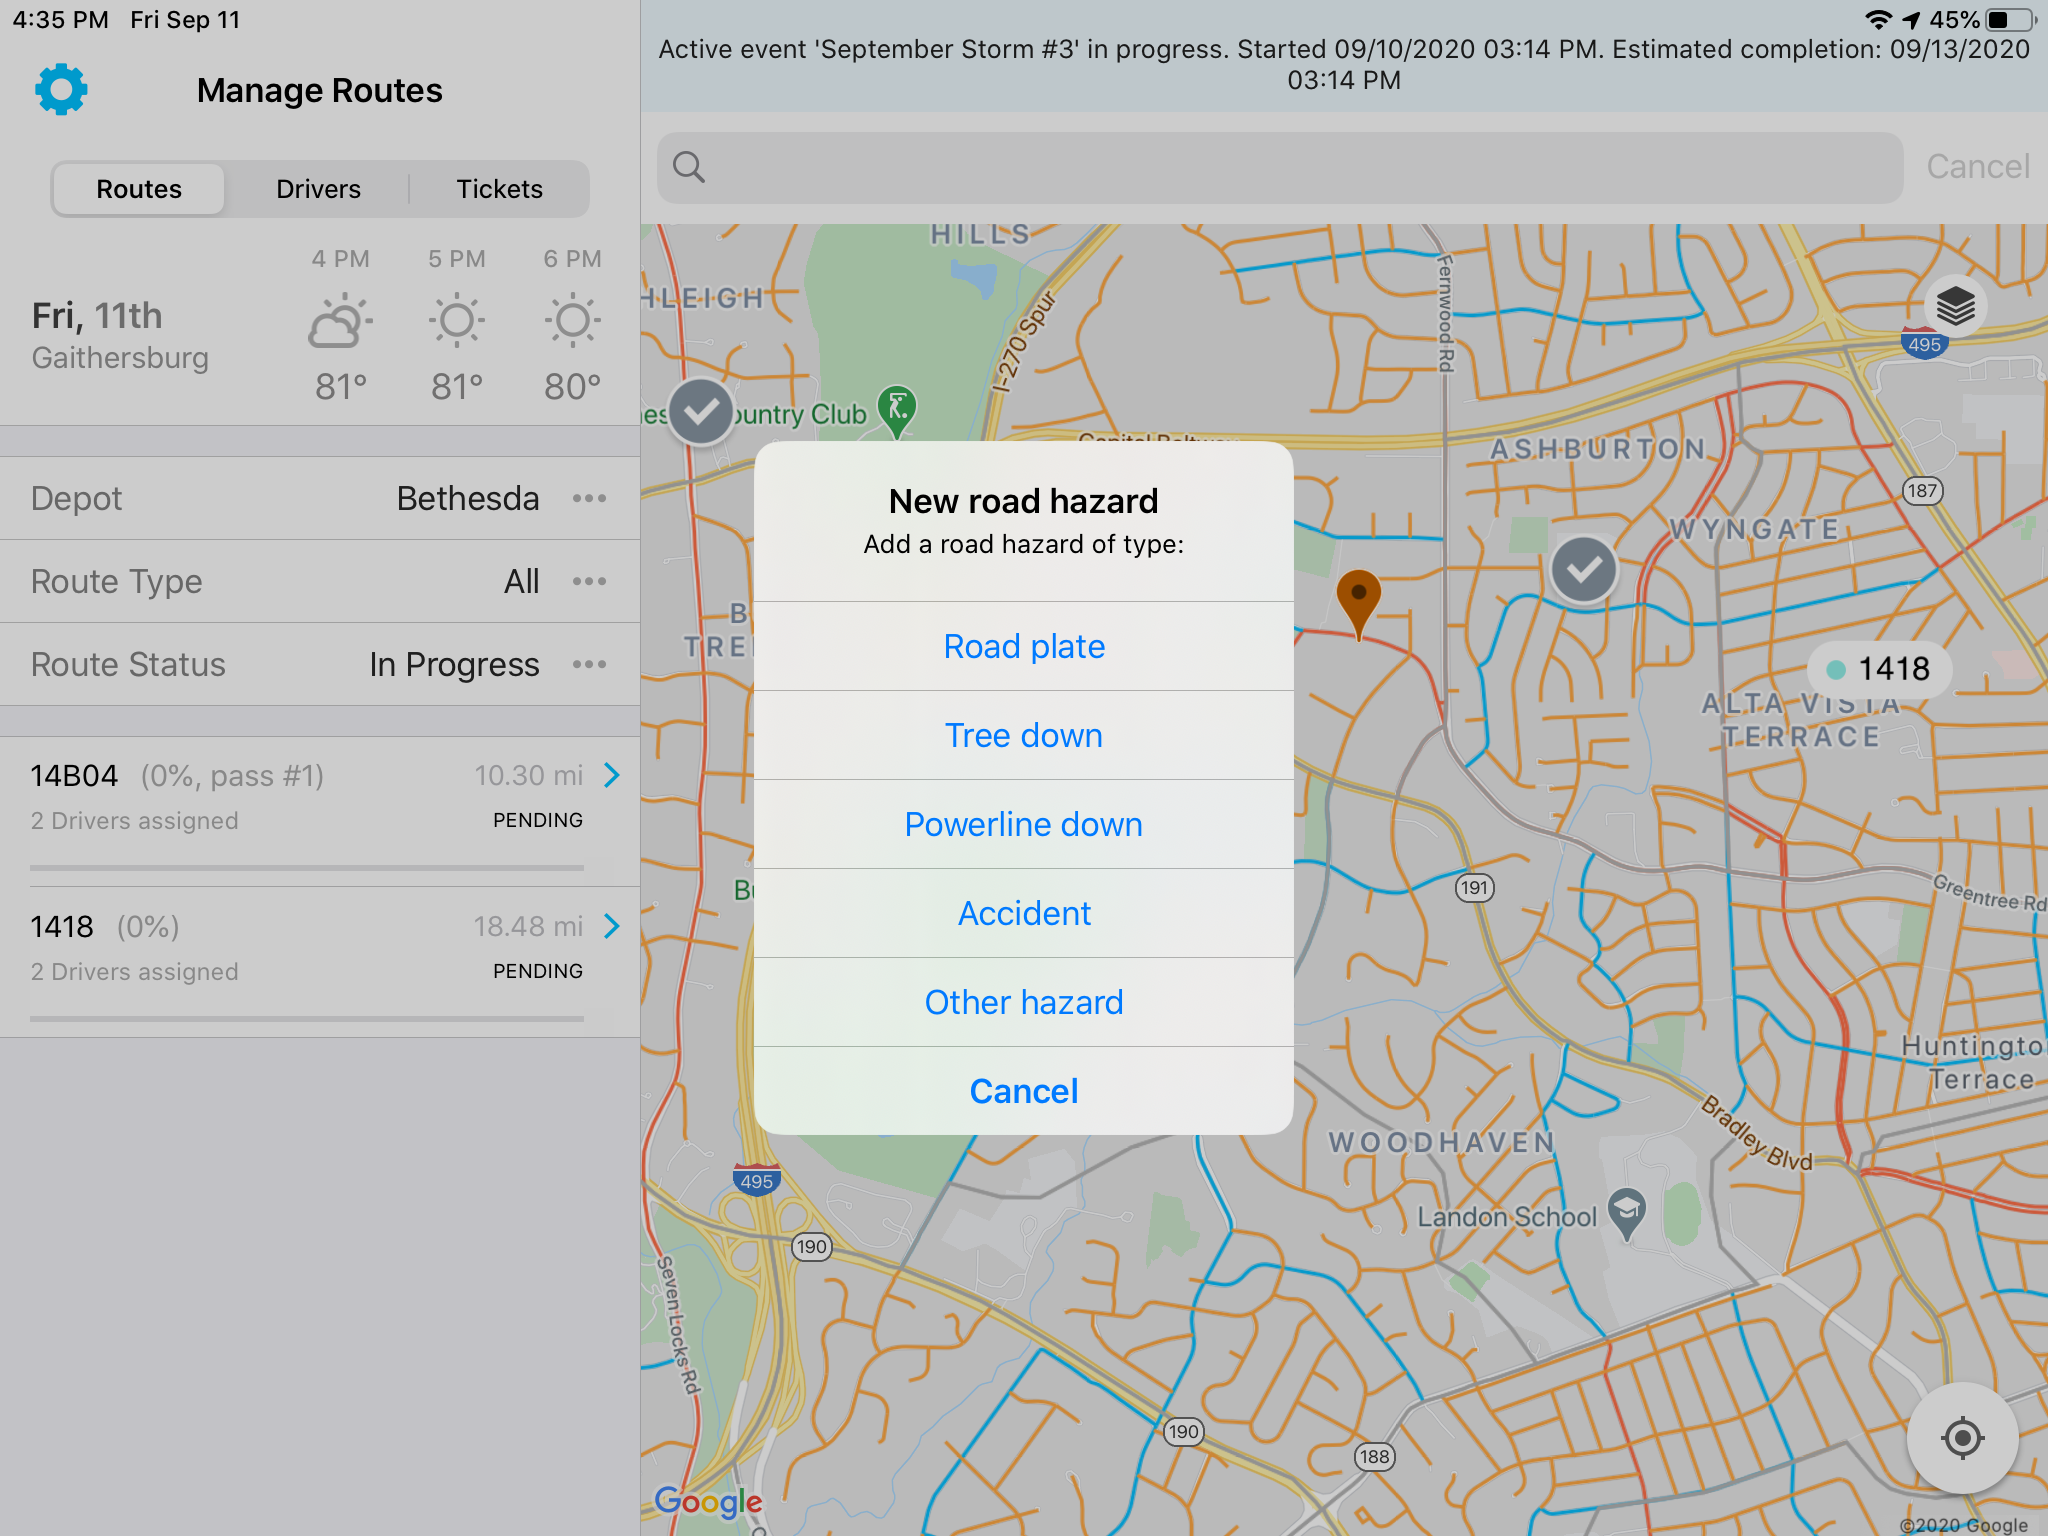
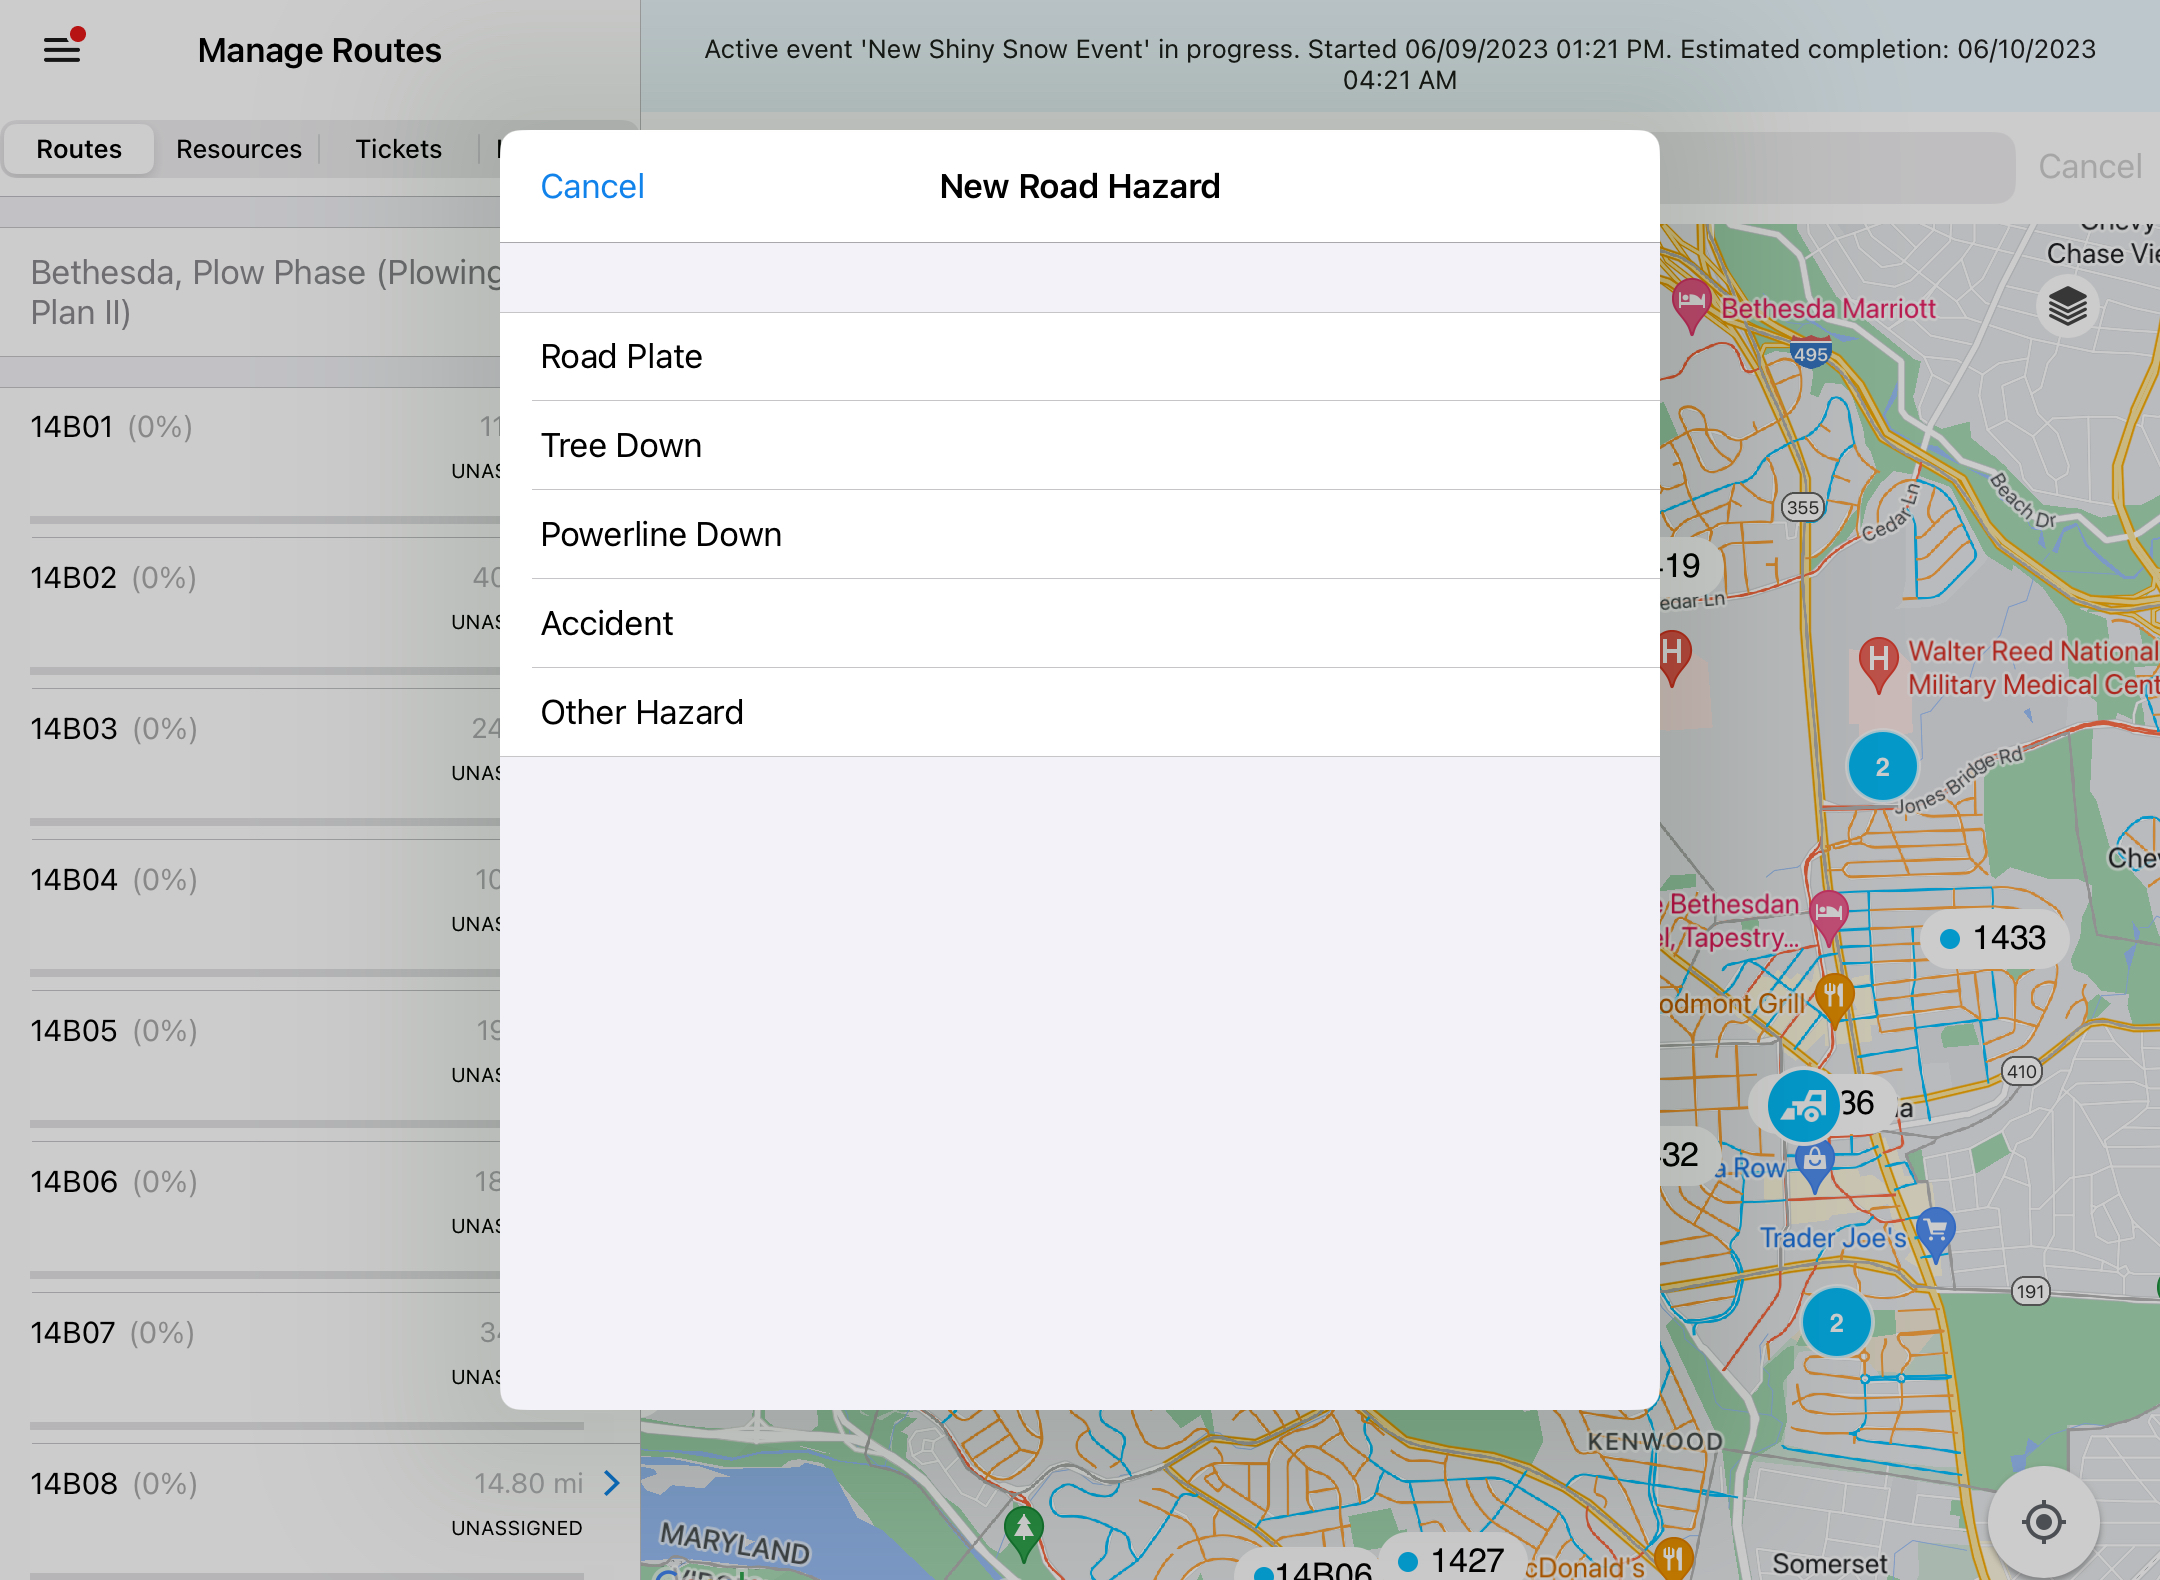
sa-supervisor-activities

diff --git a/sa-supervisor-activities.md b/sa-supervisor-activities.md
@@ -21,17 +21,17 @@ There are three ways of creating new assignments within the SA:
 3. From the Map Monitoring view on either the Routes or Drivers
 
 <section id="Assigning-New-Drivers" markdown="1">
-### Assigning New Drivers
+### Assigning Resource to a Route
 
-A Supervisor can assign a new driver to a route, by following the steps below:
+A Supervisor can assign a new resource to a route, by following the steps below:
 
-* From 'Routes Details' panel, tap 'Assign new drivers' as shown below
+* From 'Routes Details' panel, tap 'Assign Resource' as shown below
 
  
 <img src="images/supervisor/sa-supervisor-activities/assigning-new-drivers-android.png" class="android" data-lightbox="1" />
 <img src="images/supervisor/sa-supervisor-activities/assigning-new-drivers-ios.png" class="ios" data-lightbox="2" />
 
-* In the 'Assign Drivers' dialogue complete the following:
+* In the 'Assign Resource' dialogue complete the following:
   * Select type of Activity
   * Specify whether the assignment is Single-Pass or Multi-Pass  (switch the toggle on for Multi-Pass)
   * Specify whether it is a priority task (switch the toggle on to indicate yes)
@@ -40,18 +40,15 @@ A Supervisor can assign a new driver to a route, by following the steps below:
 
 * Tap 'Assign'
 
-<img src="images/supervisor/sa-supervisor-activities/assigning-new-drivers1-android.png" class="android" data-lightbox="3" />
-<img src="images/supervisor/sa-supervisor-activities/assigning-new-drivers1-ios.png" class="ios" data-lightbox="4" />
-
 * This will add the assignment to the Route Details with the name of the Driver and the Assignment status of 'Pending' to indicate that the Assignment has been sent to the Driver but not accepted yet. It also adds the Assignment to the Future list of Assignments for the Driver, as can be seen in the next section. It also prompts the Driver in the Driver App (DA) to accept the Assignment
 </section>
 
 <section id="Adding-Tasks" markdown="1">
-### Adding Tasks
+### Adding Task to a Resource
 
-A Supervisor can add a new task to a Driver, by preforming the following the steps below:
+A Supervisor can add a new task to a Resource, by preforming the following the steps below:
 
-* From the Driver Details panel, tap 'Add Task'
+* From the Resource Details panel, tap 'Add Task'
 
 <img src="images/supervisor/sa-supervisor-activities/adding-tasks-android.png" class="android" data-lightbox="5" />
 <img src="images/supervisor/sa-supervisor-activities/adding-tasks-ios.png" class="ios" data-lightbox="6" />
@@ -64,13 +61,8 @@ A Supervisor can add a new task to a Driver, by preforming the following the ste
   * Select the route by either searching for a route number or pick from the routes available based on the selected Depot filter Depot, which defaults to the Supervisor's Depot
 * Tap 'Assign'
 
-<img src="images/supervisor/sa-supervisor-activities/adding-tasks1-android.png" class="android" data-lightbox="7" />
-<img src="images/supervisor/sa-supervisor-activities/adding-tasks1-ios.png" class="ios" data-lightbox="8" />
-
 * This will add the assignment to the Future list for the Driver, as seen below, with status of 'Pending' to indicate that the assignment has been sent to the Driver but not accepted yet. The system will prompt the Driver in the Driver App (DA) to accept the Assignment
 
-<img src="images/supervisor/sa-supervisor-activities/adding-tasks2-android.png" class="android" data-lightbox="9" />
-<img src="images/supervisor/sa-supervisor-activities/adding-tasks2-ios.png" class="ios" data-lightbox="10" />
 </section>
 
 <section id="Creating-Address-Specific-Assignment" markdown="1">
@@ -91,9 +83,6 @@ A Supervisor can create an Assignment related to a specific address by following
   * Select the driver by either searching for a driver by name in the search bar or pick from the drivers available based on the selected filters: Depot, defaulted to the Supervisor's Depot, and Driver Type: County or Contractor
 * Tap 'Assign'
 
-<img src="images/supervisor/sa-supervisor-activities/specific-assignment1-android.png" class="android" data-lightbox="13" />
-<img src="images/supervisor/sa-supervisor-activities/specific-assignment1-ios.png" class="ios" data-lightbox="14" />
-
 * This will add the assignment
 </section>
 </section>
@@ -107,8 +96,6 @@ A multi-pass Assignment (when assignment was created, the multi-pass toggle was 
 
 If a Supervisor selects 'Option 1' the system notifies the Driver to continue working on the assignment, i.e. make another pass. With 'Option 2' the system marks the multi-pass Assignment as Completed and removes it from the Driver's Active Assignments into the History tab
 
-<img src="images/supervisor/sa-supervisor-activities/completing-multi-passes-android.png" class="android" data-lightbox="15" />
-<img src="images/supervisor/sa-supervisor-activities/completing-multi-passes-ios.png" class="ios" data-lightbox="16" />
 </section>
 
 <section id="Cancelling-Assignments" markdown="1">
@@ -124,8 +111,7 @@ Supervisor can cancel assignments following these steps:
 
 <img src="images/supervisor/sa-supervisor-activities/cancelling-assignments-android.png" class="android" data-lightbox="17-group" />
 <img src="images/supervisor/sa-supervisor-activities/cancelling-assignments-ios.png" class="ios" data-lightbox="18-group" />
-<img src="images/supervisor/sa-supervisor-activities/cancelling-assignments1-android.png" class="android" data-lightbox="17-group" />
-<img src="images/supervisor/sa-supervisor-activities/cancelling-assignments1-ios.png" class="ios" data-lightbox="18-group" />
+
 </section>
 
 <section id="Routes" markdown="1">
@@ -140,14 +126,13 @@ Once a Route has all its assignments completed, a Supervisor needs to change the
 </section>
 </section>
 
-<section id="Drivers" markdown="1">
-## Drivers
+<section id="Resource" markdown="1">
+## Resource
 
-<section id="Changing-Driver-Status" markdown="1">
-### Changing Driver Status
+<section id="Changing-Resource-Status" markdown="1">
+### Changing Resource Status
 
-Supervisor can change status of a contractor driver.
-<img src="images/supervisor/sa-supervisor-activities/change-driver-status-ios.png" class="ios" data-lightbox="21" /> 
+Supervisor can change status of a contractor resource driver.
 
 <section id="Assigning-Drivers-to-Tickets" markdown="1">
 ### Assigning Drivers to Tickets
@@ -158,25 +143,22 @@ A Supervisor can assign an existing ticket to a Driver, by following the steps b
 * Select the ticket to assign
 * From 'Routes Details' panel, tap 'Assign Drivers'as shown below
 
-<img src="images/supervisor/sa-supervisor-activities/assigning-drivers-android.png" class="android" data-lightbox="21" />
-<img src="images/supervisor/sa-supervisor-activities/assigning-drivers-ios.png" class="ios" data-lightbox="22" />
+<img src="images/supervisor/sa-supervisor-activities/assigning-drivers-android.png" class="android" data-lightbox="23" />
+<img src="images/supervisor/sa-supervisor-activities/assigning-drivers-ios.png" class="ios" data-lightbox="24" />
 
-* In the 'Assign Drivers' dialogue complete the following:
+* In the 'Assign Resource' dialogue complete the following:
    * Select type of Activity
    * Specify whether it is a priority task (switch the toggle on to indicate Yes: this moves the assignment to the top of the queue of the Future Assignments of the Driver)
    * Type a note to the driver
    * Select Driver by either searching for a driver by name in the search bar or pick from the drivers available based on the selected filters: Depot, defaulted to the Supervisor's Depot, and Driver Type: County or Contractor
 * Tap 'Assign'
 
-<img src="images/supervisor/sa-supervisor-activities/assigning-drivers1-android.png" class="android" data-lightbox="23" />
-<img src="images/supervisor/sa-supervisor-activities/assigning-drivers1-ios.png" class="ios" data-lightbox="24" />
-
 This will remove the 'New' tag from the ticket on the ticket list and change the color of the ticket marker on the map to yellow <img src="images/supervisor/sa-supervisor-activities/yellow-logo-ios.png" class="ios" style="min-width:18px; width:18px; border:none;" /><img src="images/supervisor/sa-supervisor-activities/yellow-logo-android.png" class="android" style="min-width:18px; width:18px; border:none;" /> to indicate that the ticket status is 'Assigned' but not accepted by the Driver yet. It will also notify the Driver to accept the ticket assignment.
 
 </section>
 
-<section id="Pausing-or-Resuming-Drivers" markdown="1">
-### Pausing or Resuming Drivers
+<section id="Pausing-or-Resuming-Resource" markdown="1">
+### Pausing or Resuming Resource
 
 A Supervisor can pause an active Assignment that a Driver is working on by following the steps below: (the reasons to pause: refil salt or go to gas station to document that no work is being performed on the route – no breadcrumbs are accumulated) 
 
@@ -184,14 +166,8 @@ When the Driver status is 'In Service', a Supervisor can pause an Active Assignm
 
 * From the Driver Details panel, tap 'Pause' and then 'Yes' on the verification prompt
 
-<img src="images/supervisor/sa-supervisor-activities/pausing-resuming-drivers-android.png" class="android" data-lightbox="25" />
-<img src="images/supervisor/sa-supervisor-activities/pausing-resuming-drivers-ios.png" class="ios" data-lightbox="26" />
-
 * The system pauses the Driver (status is changed to 'Paused') and notifies the Driver in the Driver App that their Assignment has been paused and to wait for further instructions
 * To resume the assignment, tap 'Resume' on the Driver that's been paused, as seen below
-
-<img src="images/supervisor/sa-supervisor-activities/pausing-resuming-drivers1-android.png" class="android" data-lightbox="27" />
-<img src="images/supervisor/sa-supervisor-activities/pausing-resuming-drivers1-ios.png" class="ios" data-lightbox="28" />
 
  </section>
  </section>
@@ -232,10 +208,6 @@ A Supervisor can delete an existing road hazard from the map if it doesn't exist
 
   * The system will display the following 'Road hazard info' prompt
   * Press 'Delete' and press 'Yes' on the next prompt to confirm deletion of the road hazard
-
-<img src="images/supervisor/sa-supervisor-activities/deleting-road-hazards1-android.png" class="android" data-lightbox="35" />
-<img src="images/supervisor/sa-supervisor-activities/deleting-road-hazards1-ios.png" class="ios" data-lightbox="36" />
-
   * Once deleted, the marker is removed from the map for everyone
 
 </section>

diff --git a/sa-login-and-navigation.md b/sa-login-and-navigation.md
@@ -61,8 +61,8 @@ The diagram below highlights basic navigation controls and map elements of the S
 16. Search bar - search address on the map to create address assignments
 17. Notification banner - displays active event estimates. Pressing on the banner opens up the Event Log
 
-<section id="Settings-Menu" markdown="1">
-### Settings Menu
+<section id="Main-Menu" markdown="1">
+### Main Menu
  
 Users can navigate to the Settings Menu by pressing the 'Gear' icon as specified in the diagram above. The menu opens to the 'My Profile' page automatically. The following menu options are available:
 
